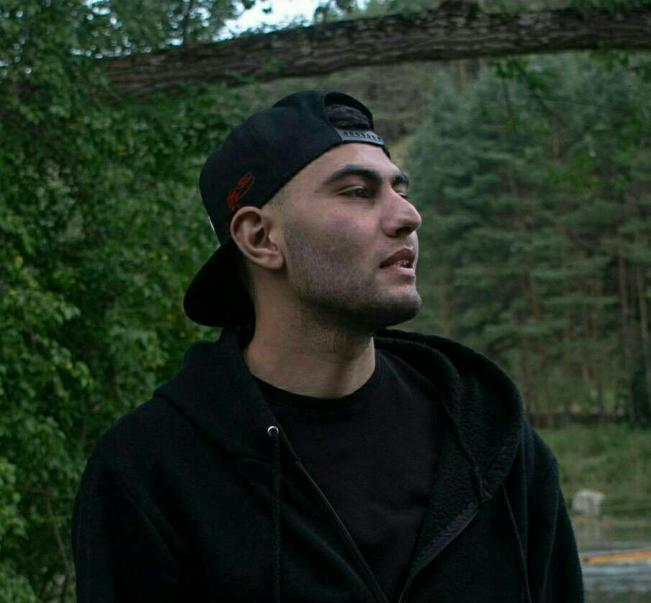
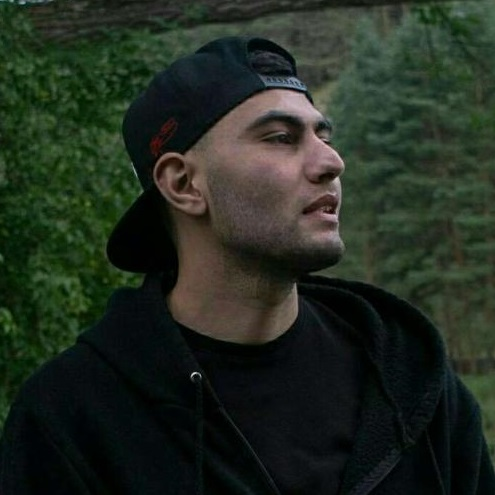
fix: fix photo position

diff --git a/src/components/Team/Team.scss b/src/components/Team/Team.scss
@@ -65,7 +65,7 @@
 
   margin: 0px 0px -4px 3px;
 
-  background-image: url("../../assets/images/icons/github.svg");
+  background-image: url('../../assets/images/icons/github.svg');
   background-size: cover;
 }
 
@@ -112,7 +112,7 @@
   -moz-box-shadow: 0px 5px 10px 2px rgba(34, 60, 80, 0.2);
   box-shadow: 0px 5px 10px 2px rgba(34, 60, 80, 0.2);
   &_artem {
-    background-image: url("../../assets/images/photos/artem.jpg");
+    background-image: url('../../assets/images/photos/artem.jpg');
     animation: artem 1s forwards ease;
     @keyframes artem {
       0% {
@@ -124,7 +124,8 @@
     }
   }
   &_sedrak {
-    background-image: url("../../assets/images/photos/sedrak.jpg");
+    background-image: url('../../assets/images/photos/sedrak.jpg');
+    background-position: center;
     animation: sedrak 1s forwards ease;
     @keyframes sedrak {
       0% {
@@ -138,11 +139,11 @@
   &_evgenii {
     background-size: 131%;
     background-position: -19px 0px;
-    background-image: url("../../assets/images/photos/evgenii2.jpg");
+    background-image: url('../../assets/images/photos/evgenii2.jpg');
 
     background-size: 90%;
     background-position: 0px 0px;
-    background-image: url("../../assets/images/photos/evgenii.jpg");
+    background-image: url('../../assets/images/photos/evgenii.jpg');
 
     animation: evgenii 1s forwards ease;
     @keyframes evgenii {
